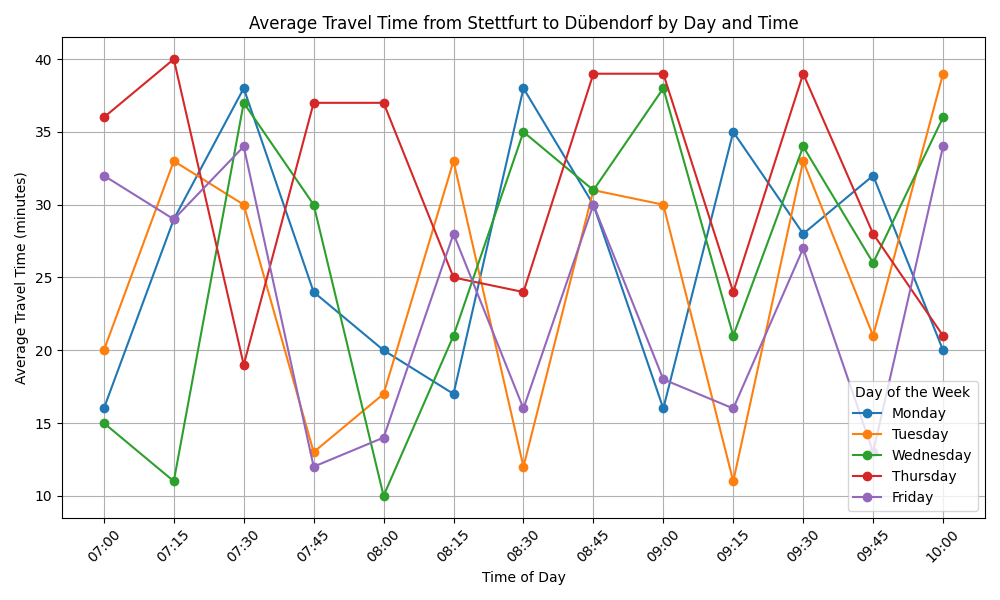
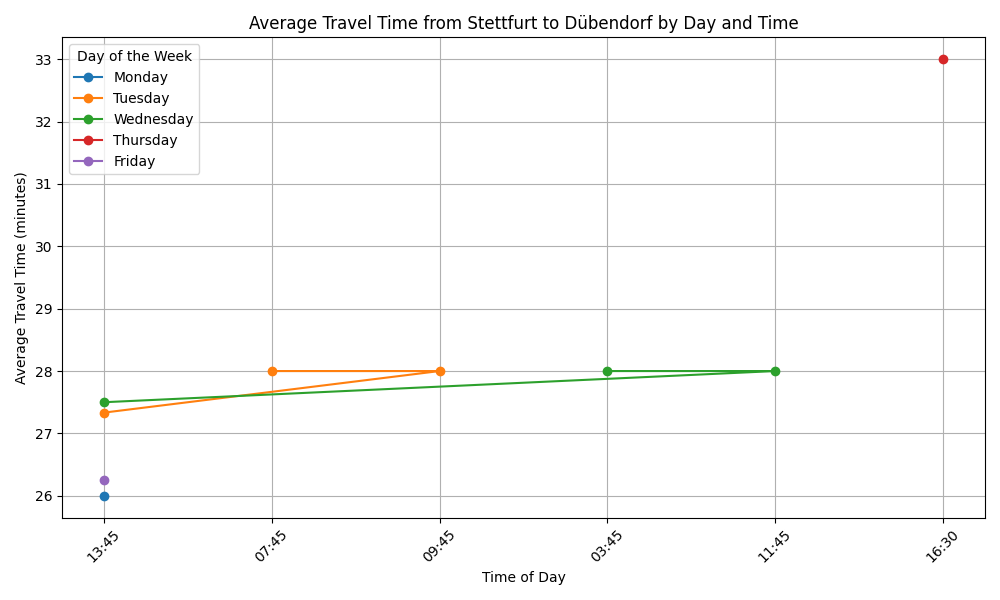
fix(data): save all data to files with datetime and generate plot over all files

diff --git a/plot.py b/plot.py
@@ -1,22 +1,37 @@
 import pandas as pd
 import matplotlib.pyplot as plt
+import os
+import glob
 
-# Read the CSV file
-csv_file = 'sample/Sample_Travel_Time_Data.csv'
-df = pd.read_csv(csv_file)
+# Folder containing the CSV files
+folder_path = 'out/data/'
+
+# List all CSV files in the folder
+csv_files = glob.glob(os.path.join(folder_path, '*.csv'))
+
+# Initialize an empty list to store DataFrames
+df_list = []
+
+# Loop through all CSV files and read them into a DataFrame, then append to the list
+for csv_file in csv_files:
+    df = pd.read_csv(csv_file)
+    df_list.append(df)
+
+# Concatenate all DataFrames into one
+df = pd.concat(df_list, ignore_index=True)
 
 # Convert 'Time' column to datetime to make it easier to work with
 df['Time'] = pd.to_datetime(df['Time'], format='%H:%M')
 
 # Round the time to the nearest quarter hour
-df['Time'] = df['Time'].dt.floor('15T')
+df['Time'] = df['Time'].dt.floor('15min')
 
 # Sort by day of the week and time
 df['Day Of Week'] = pd.Categorical(df['Day Of Week'], categories=['Monday', 'Tuesday', 'Wednesday', 'Thursday', 'Friday'], ordered=True)
 df = df.sort_values(by=['Day Of Week', 'Time'])
 
 # Group by day of the week and time, then calculate the mean travel time for each group
-average_df = df.groupby(['Day Of Week', 'Time'])['Travel Time (minutes)'].mean().reset_index()
+average_df = df.groupby(['Day Of Week', 'Time'], observed=True)['Travel Time (minutes)'].mean().reset_index()
 
 # Convert 'Time' column to string for plotting
 average_df['Time'] = average_df['Time'].dt.strftime('%H:%M')

diff --git a/get_traffic.py b/get_traffic.py
@@ -19,7 +19,7 @@ origin = os.getenv("LOCATION_START",'Stettfurt')
 destination = os.getenv("LOCATION_DESTINATION", 'Überlandstrasse 1, Dübendorf')
 
 # Path to the CSV file
-csv_file = 'out/traffic_data.csv'
+csv_file = 'out/data/traffic_data_'+time.strftime("%Y%m%d-%H%M%S")+'.csv'
 
 # Function to round time to the nearest quarter hour
 def round_time_to_quarter_hour(dt):
